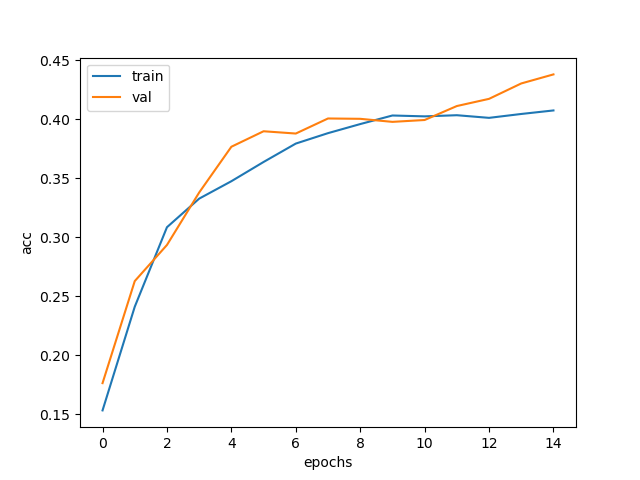
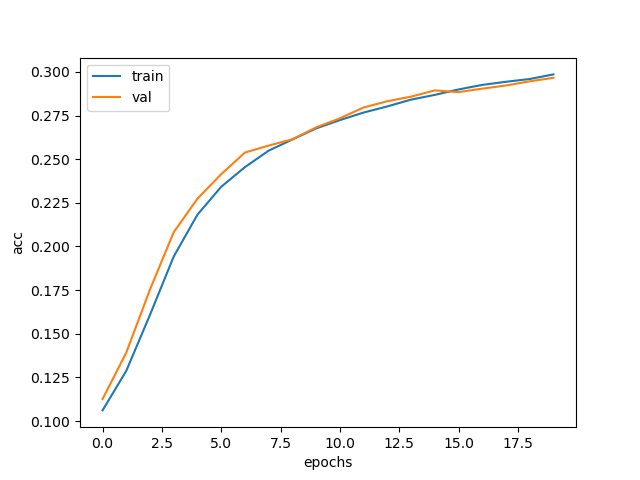
a6

diff --git a/HW3/hw3code/A6.py b/HW3/hw3code/A6.py
@@ -27,7 +27,8 @@ TRANSFORMS = {
 }
 
 DEVICE = torch.device("cuda:0" if torch.cuda.is_available() else "cpu")
-# DEVICE = "cpu"
+
+#DEVICE = "cpu"
 CIFAR_TRAIN = datasets.CIFAR10(root="./data",
                              train=True,
                              download=True,
@@ -36,13 +37,13 @@ CIFAR_TEST = datasets.CIFAR10(root="./data",
                              train=True,
                              download=True,
                              transform=TRANSFORMS["val"])
-# CIFAR_TRAIN, CIFAR_VAL = \
-#      torch.utils.data.random_split(CIFAR_TRAIN,
-#                                    [45000, 50000 - 45000])
-CIFAR_TRAIN, CIFAR_VAL = torch.utils.data.Subset(CIFAR_TRAIN,
-                                                 range(0, 5000)),\
-                         torch.utils.data.Subset(CIFAR_TRAIN,
-                                                 range(1000, 2000))
+CIFAR_TRAIN, CIFAR_VAL = \
+     torch.utils.data.random_split(CIFAR_TRAIN,
+                                   [45000, 50000 - 45000])
+# CIFAR_TRAIN, CIFAR_VAL = torch.utils.data.Subset(CIFAR_TRAIN,
+#                                                  range(0, 5000)),\
+#                          torch.utils.data.Subset(CIFAR_TRAIN,
+#                                                  range(5000, 6000))
 CLASSES = \
     ('plane', 'car', 'bird', 'cat', 'deer', 'dog', 'frog', 'horse', 'ship', 'truck')
 
@@ -294,23 +295,26 @@ def main():
         ModelRegister = BestModelRegister()
         TheFunc = ModelA.GetHyperTuneFunc(20, True, ModelRegister)
         result = shgo(TheFunc,
-             [(20, 500), (1e-4, 0.01)], options={"maxev":10, "ftol": 1e-2, "maxfev": 3})
+             [(20, 500), (1e-6, 0.1)], options={"maxev":10, "ftol": 1e-2, "maxfev": 3})
         print(result)
         print(ModelRegister.Top9AccList())
         ModelRegister.ProducePlotPrintResult()
 
     def TuneModel2():
         ModelRegister = BestModelRegister()
-        TheFunc = ModelB.GetHyperTuneFunc(15, True, ModelRegister)
+        TheFunc = ModelB.GetHyperTuneFunc(20, True, ModelRegister)
         result = shgo(TheFunc,
-                      [(100, 1000), (1e-5, 0.01), (50, 800)], options={"maxev": 10, "ftol": 1e-2, "maxfev": 10})
+                      [(20, 10000), (1e-6, 0.1), (50, 5000)], options={"maxev": 20, "ftol": 1e-2, "maxfev": 3})
         print(result)
         print(ModelRegister.Top9AccList())
         ModelRegister.ProducePlotPrintResult()
     TuneModel2()
+    TuneModel1()
+    # TuneModel1()
 
 if __name__ == "__main__":
     import os
     print(f"curdir: {os.curdir} ")
     print(f"cwd: {os.getcwd()}")
+    print(f"Pytorch device: {DEVICE}")
     main()
